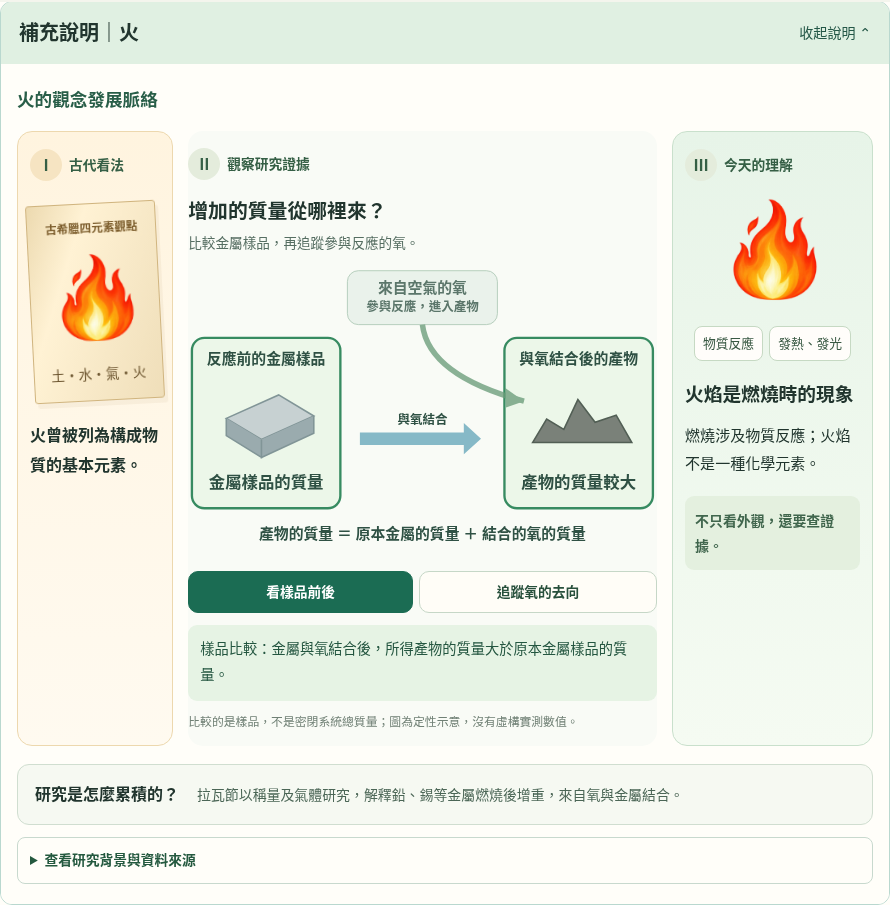
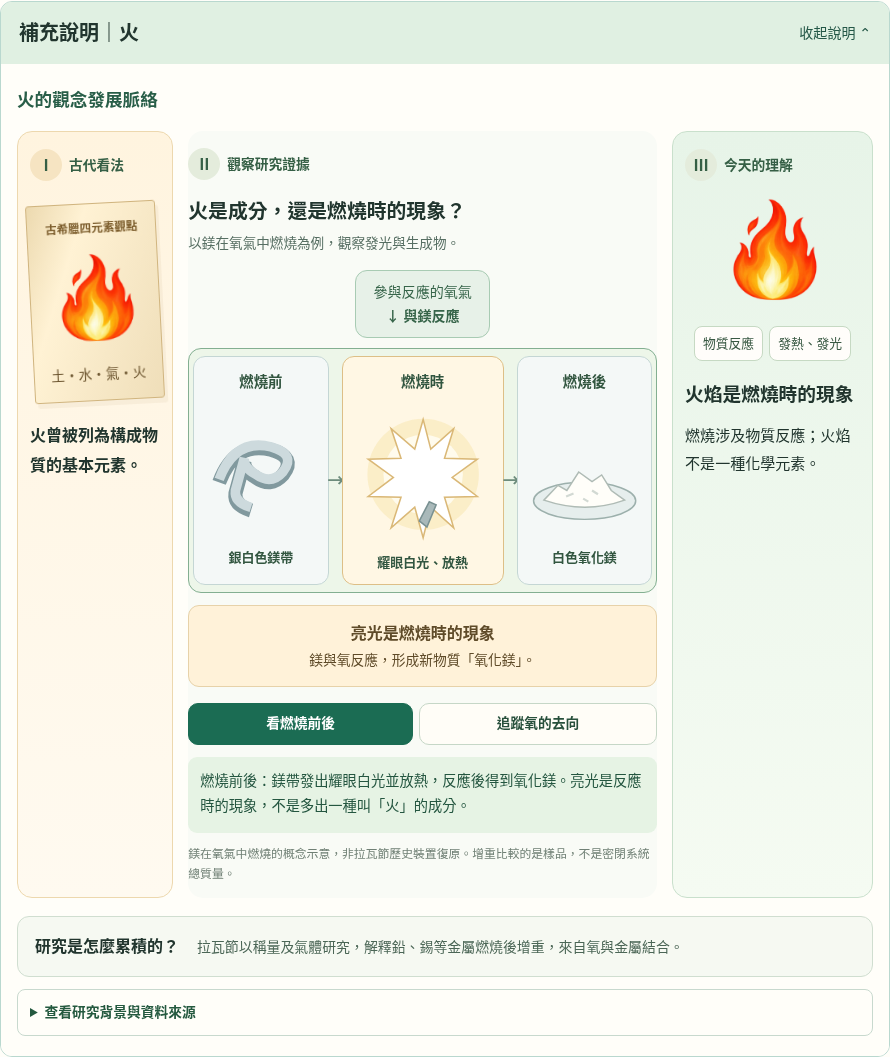
Connect fire inquiry to visible combustion and its products

Changed region(s): [[0.0, 0.0, 1.0, 0.8354], [0.0303, 0.8663, 0.7584, 0.9901], [0.6674, 0.8044, 0.7281, 0.8354]]

diff --git a/units/6/parts/6.1/assets/classical-inquiry.js b/units/6/parts/6.1/assets/classical-inquiry.js
@@ -27,12 +27,12 @@
       feedback: { oxygen: '氧氣：可使蠟燭燃燒更旺。氧氣是助燃氣體，並不是燃料。', ordinary: '空氣：能讓蠟燭燃燒；組成研究顯示，其中包含氮、氧及其他氣體。', carbon: '二氧化碳：不能維持這裡的蠟燭燃燒。這個比較本身還不足以證明空氣是混合物。' }
     },
     fire: {
-      past: '火曾被列為構成物質的基本元素。', title: '增加的質量從哪裡來？', instruction: '比較金屬樣品，再追蹤參與反應的氧。',
+      past: '火曾被列為構成物質的基本元素。', title: '火是成分，還是燃燒時的現象？', instruction: '以鎂在氧氣中燃燒為例，觀察發光與生成物。',
       conclusion: '火焰是燃燒時的現象', result: '燃燒涉及物質反應；火焰不是一種化學元素。',
       brief: '拉瓦節以稱量及氣體研究，解釋鉛、錫等金屬燃燒後增重，來自氧與金屬結合。',
-      note: '比較的是樣品，不是密閉系統總質量；圖為定性示意，沒有虛構實測數值。',
-      choices: [['samples','看樣品前後'],['oxygen','追蹤氧的去向']], initial: 'samples',
-      feedback: { samples: '樣品比較：金屬與氧結合後，所得產物的質量大於原本金屬樣品的質量。', oxygen: '追蹤氧：增加的質量來自參與反應的氧。物質由周圍進入樣品，並不是火焰憑空帶來質量。' }
+      note: '鎂在氧氣中燃燒的概念示意，非拉瓦節歷史裝置復原。增重比較的是樣品，不是密閉系統總質量。',
+      choices: [['samples','看燃燒前後'],['oxygen','追蹤氧的去向']], initial: 'samples',
+      feedback: { samples: '燃燒前後：鎂帶發出耀眼白光並放熱，反應後得到氧化鎂。亮光是反應時的現象，不是多出一種叫「火」的成分。', oxygen: '追蹤氧：氧與鎂反應，成為氧化鎂的一部分。若鎂完全反應且產物完整收集，增加的質量來自結合的氧。' }
     }
   };
   const svg = (content, label, height = 360) => `<svg class="inquiry-svg" viewBox="0 0 600 ${height}" role="img" aria-label="${label}">${content}</svg>`;
@@ -107,7 +107,21 @@
     return svg(drawing+'<g class="air-composition"><path d="M115 317H485" stroke="#a4bdaf" stroke-width="2"/><text x="300" y="342" text-anchor="middle" class="diagram-heading">空氣組成研究：氮 ＋ 氧 ＋ 其他氣體</text></g>','氧氣、空氣與二氧化碳中的蠟燭燃燒表現不同；下方另列空氣包含的氣體。',365);
   }
   function fire() {
-    return svg(`<g class="metal-record" data-focus="samples"><rect x="5" y="92" width="190" height="218" rx="16"/><text x="100" y="125" text-anchor="middle" class="diagram-heading">反應前的金屬樣品</text><path d="M49 195l67-30 45 27-67 30Z" fill="#c7d1d2" stroke="#819597" stroke-width="2"/><path d="M49 195v22l45 28v-23M94 222v23l67-31v-22" fill="#9aabae" stroke="#819597" stroke-width="2"/><text x="100" y="284" text-anchor="middle">金屬樣品的質量</text><rect x="405" y="92" width="190" height="218" rx="16"/><text x="500" y="125" text-anchor="middle" class="diagram-heading">與氧結合後的產物</text><path d="M441 226l18-30 22 13 18-38 22 29 27-9 20 35Z" fill="#7a8179" stroke="#525f55" stroke-width="2"/><text x="500" y="284" text-anchor="middle">產物的質量較大</text></g><g class="oxygen-route" data-focus="oxygen"><rect x="204" y="6" width="192" height="69" rx="14" fill="#e6f0e8" stroke="#92b69e"/><text x="300" y="34" text-anchor="middle" class="diagram-heading">來自空氣的氧</text><text x="300" y="58" text-anchor="middle" class="diagram-caption">參與反應，進入產物</text><path d="M300 75Q308 140 430 173" fill="none" stroke="#6b9d7a" stroke-width="7"/><path d="M430 173l-24-17 1 25Z" fill="#6b9d7a"/></g>${arrow(220,221,155)}<text x="300" y="202" text-anchor="middle" class="diagram-caption">與氧結合</text><text x="300" y="350" text-anchor="middle" class="diagram-heading">產物的質量 ＝ 原本金屬的質量 ＋ 結合的氧的質量</text>`, '比較金屬樣品反應前及與氧結合後的產物。增加的質量來自氧。',375);
+    return `<div class="fire-investigation">
+      <div class="oxygen-route" data-focus="oxygen"><span>參與反應的氧氣</span><strong>↓ 與鎂反應</strong></div>
+      <div class="metal-record fire-sequence" data-focus="samples">
+        <article class="fire-before"><h6>燃燒前</h6>
+          <svg viewBox="0 0 180 205" role="img" aria-label="燃燒前的銀白色鎂帶"><path d="M34 118Q55 62 104 74Q139 84 120 108Q104 126 83 111Q66 101 68 89L56 133Q54 149 77 156" fill="none" stroke="#81999e" stroke-width="19"/><path d="M34 114Q55 58 104 70Q139 80 120 104Q104 122 83 107Q66 97 68 85L56 129Q54 145 77 152" fill="none" stroke="#cddadd" stroke-width="13"/></svg>
+          <p>銀白色鎂帶</p></article>
+        <article class="fire-burning"><h6>燃燒時</h6>
+          <svg viewBox="0 0 210 205" role="img" aria-label="鎂燃燒發出耀眼白光並放熱，圖為靜態示意"><circle cx="105" cy="104" r="73" fill="#f8e8b5" opacity=".6"/><circle cx="105" cy="104" r="52" fill="#fffbed"/><path d="M105 32l10 39 30-27-12 39 43 1-33 24 33 25-43 1 12 40-30-27-10 40-11-40-31 27 13-40-43-1 33-25-33-24 43-1-13-39 31 27Z" fill="white" stroke="#dab877" stroke-width="2"/><path d="M100 165l13-25 9 4-12 29Z" fill="#a9b9ba" stroke="#799192" stroke-width="2"/><circle cx="105" cy="105" r="19" fill="white"/></svg>
+          <p>耀眼白光、放熱</p></article>
+        <article class="fire-after"><h6>燃燒後</h6>
+          <svg viewBox="0 0 180 205" role="img" aria-label="燃燒後形成白色的氧化鎂粉末"><ellipse cx="90" cy="143" rx="69" ry="25" fill="#e6eeed" stroke="#9cb0ac" stroke-width="2"/><path d="M35 142l19-20 12 7 16-25 18 13 13-9 13 21 18 13Q91 161 35 142Z" fill="#fffef9" stroke="#afbbb5" stroke-width="2"/><path d="M65 137l10-4m25-4 8 5m-20 6 7 4" stroke="#d2d9d3" stroke-width="3"/></svg>
+          <p>白色氧化鎂</p></article>
+      </div>
+      <div class="fire-findings"><strong>亮光是燃燒時的現象</strong><span>鎂與氧反應，形成新物質「氧化鎂」。</span></div>
+    </div>`;
   }
   const diagrams = { earth:soil, water, air, fire };
   function select(key, observation) {

diff --git a/units/6/parts/6.1/assets/classical-inquiry.css b/units/6/parts/6.1/assets/classical-inquiry.css
@@ -6,3 +6,7 @@
 /* Water research: show apparatus, observation and identification together. */
 .water-investigation{display:grid;gap:10px}.water-record{overflow:hidden;border:1px solid #c4d6d4;border-radius:14px;background:#f3f8f9;transition:border-color .15s,background-color .15s}.water-record.focused{background:#edf7ea;border-color:#378b61;box-shadow:inset 0 0 0 1px #378b61}.water-record header{display:flex;align-items:center;gap:8px;padding:12px 12px 4px;color:#2e5846;font-size:.91rem;line-height:1.6}.water-direction{flex:none;border-radius:7px;padding:3px 8px;background:#e2ece0;font-size:.8rem;font-weight:800}.water-record.focused .water-direction{color:white;background:#397e5b}.water-record .inquiry-svg{width:100%;max-width:600px;margin:auto}.water-record .water-label{font-size:24px}.water-record .water-small{font-size:20px;font-weight:600}.water-finding{display:flex;gap:9px;align-items:baseline;margin:0;padding:10px 12px;background:#e6efec;color:#29543f;font-size:.9rem;line-height:1.7}.water-finding>span{flex:none;font-size:.77rem;font-weight:800;border:1px solid #acc7b5;border-radius:5px;padding:0 5px}.water-record.focused .water-finding{background:#dcecd9}.water-evidence-link{text-align:center;padding:2px 4px;color:#56745f;font-size:.83rem;font-weight:750;line-height:1.65}
 @media(prefers-reduced-motion:reduce){.water-record{transition:none}}
+
+/* Combustion stays visible: before, burning and product are observed together. */
+.fire-investigation{padding:4px 0}.fire-investigation .oxygen-route{width:max-content;max-width:100%;margin:0 auto 10px;padding:9px 17px;text-align:center;background:#e7f1e8;border:1px solid #a8cbb3;border-radius:12px;opacity:1;line-height:1.7;color:#37654a;font-size:.88rem}.fire-investigation .oxygen-route span,.fire-investigation .oxygen-route strong{display:block}.fire-investigation .oxygen-route.focused{background:#d8efdc;border:2px solid #25834e;filter:none;padding:8px 16px}.fire-sequence{display:grid;grid-template-columns:1fr 1.2fr 1fr;gap:13px;border:1px solid transparent;border-radius:13px;padding:7px 4px}.fire-sequence.focused{border-color:#83af91;background:#edf6e9}.fire-sequence article{position:relative;min-width:0;border:1px solid #c4d6d4;border-radius:12px;background:#f4f8f7;overflow:visible}.fire-sequence .fire-burning{background:#fff7e4;border-color:#ddbf87}.fire-sequence h6{font-size:.9rem;text-align:center;margin:12px 3px 0;color:#325640}.fire-sequence svg{display:block;width:100%;height:auto}.fire-sequence p{font-size:.81rem;text-align:center;color:#325640;font-weight:750;line-height:1.7;margin:0 3px 11px}.fire-sequence article:not(:last-child)::after{content:'→';position:absolute;left:100%;top:48%;width:14px;text-align:center;color:#6d8c7c;font-size:17px;font-weight:800}.fire-findings{margin-top:12px;padding:13px 10px;background:#fff2d9;border:1px solid #e7d2a9;border-radius:11px;text-align:center;line-height:1.8;color:#5f4b29}.fire-findings strong,.fire-findings span{display:block}.fire-findings strong{font-size:1rem}.fire-findings span{font-size:.86rem}
+@media(max-width:420px){.fire-sequence{gap:10px;padding:6px 2px}.fire-sequence h6{font-size:.85rem}.fire-sequence p{font-size:.73rem}.fire-sequence article:not(:last-child)::after{width:11px;font-size:14px}.fire-findings{padding:11px 8px}.fire-findings strong{font-size:.94rem}.fire-findings span{font-size:.82rem}}

diff --git a/units/6/parts/6.1/assets/elements.js b/units/6/parts/6.1/assets/elements.js
@@ -100,7 +100,7 @@
       modernTitle: '火焰是燃燒時的現象',
       modern: '火焰涉及燃燒中的高溫氣體等發光，不是一種化學元素。燃燒可以有火焰，但不是所有燃燒都會出現可見火焰。',
       scope: '金屬燃燒的稱量是理解燃燒的代表性證據，不是從古代四元素觀點直接跳到今日全部燃燒理論的單一步驟。',
-      sources: [['拉瓦節的金屬燃燒稱量','https://www.sciencehistory.org/education/scientific-biographies/antoine-laurent-lavoisier/'],['火焰的現代理解','https://www.britannica.com/science/flame']]
+      sources: [['拉瓦節的金屬燃燒稱量','https://www.sciencehistory.org/education/scientific-biographies/antoine-laurent-lavoisier/'],['火焰的現代理解','https://www.britannica.com/science/flame'],['鎂燃燒的性質','https://periodic-table.rsc.org/element/12/magnesium']]
     }
   };
   function renderClassicalHistory(key) {

diff --git a/units/6/parts/6.1/assets/README.md b/units/6/parts/6.1/assets/README.md
@@ -49,3 +49,9 @@
 原本的瓶子／水杯箭頭圖改為兩份研究情境：生成水以反應、蒸氣、冷卻後凝結的水滴呈現；分解以電源、電極、氣泡與兩側收集管呈現，搭配已檢驗為氫與氧的結果。兩份觀察與檢驗結果直接可見，點選只突出重點。
 
 分解圖承接第四單元，以適當條件下電解水為例；氣體無色，身分來自檢驗。負極對應氫氣、正極對應氧氣，未表示氣體體積比例。明示省略電解質及檢驗細節；不是特定科學家的裝置復原。重新讀取前述 OpenStax Chemistry 2e 1.2（含圖 1.15），核對電源、水分解及產物。SVG 為原生教材圖解，未引用外部實驗圖片。
+
+## 火與燃燒的連結補強（2026-10-28）
+
+火的主圖改用鎂在氧氣中燃燒的概念例子，並列鎂帶、燃燒發出耀眼白光與放熱、白色氧化鎂，明示亮光是反應時的現象，留下的是新物質。主圖不再以增重為主題；增重補充限定鎂完全反應且產物完整收集。採氧氣中的反應例子，不將空氣中可能的其他反應全部說成只生成氧化鎂。
+
+實際讀取[皇家化學學會：鎂](https://periodic-table.rsc.org/element/12/magnesium)，核對銀白外觀、燃燒發光及與氧反應放熱。歷史研究仍依先前已查核拉瓦節資料，明示鎂圖非歷史裝置復原。插圖是靜態原生 SVG，沒有閃爍光效、虛構數值或新增實驗操作流程。

diff --git a/docs/reviews/unit-6.1-visual-inquiry/review.md b/docs/reviews/unit-6.1-visual-inquiry/review.md
@@ -45,3 +45,11 @@
 依使用者指示移除「不只看外觀，還要查證據。」及其淡綠底框，四項共用的現代理解區皆適用。移除未再使用的樣式，手機插畫跨列隨剩餘標題與說明調整。
 
 15 組既有瀏覽器子測試全部通過（含主項共 16 項），並目視桌面水區及手機氣區；更新這兩張驗證截圖。提示文字與專用樣式已從正式頁面移除。
+
+## 火與燃燒的連結補強（2026-10-28）
+
+使用者指出原圖只看見增重，與火的關係不清楚。主圖改用鎂在氧氣中燃燒的概念例子，三格並列銀白色鎂帶、燃燒時耀眼白光與放熱、燃燒後白色氧化鎂；上方氧的箭頭對應中央燃燒，下方直接連結亮光是燃燒時的現象、新物質為氧化鎂。
+
+主要結果直接可見，操作分為看燃燒前後與追蹤氧。質量補充移到氧的回饋中，限定鎂完全反應且產物完整收集。歷史短註與詳細研究史仍為拉瓦節的鉛／錫研究，明示鎂圖不是歷史裝置復原；不把燃燒一概等同可見火焰。
+
+實際讀取皇家化學學會鎂元素資料，核對燃燒發光與放熱性質；來源加入展開資料區。15 組子測試通過（含主項共 16 項），含新增燃燒白光、氧化鎂與現象連結的檢查，以及六種寬度下火圖的溢出檢查。目視[桌面](fire-desktop.png)與[手機](fire-mobile.png)，氧的箭頭、三格順序與說明均可見。
